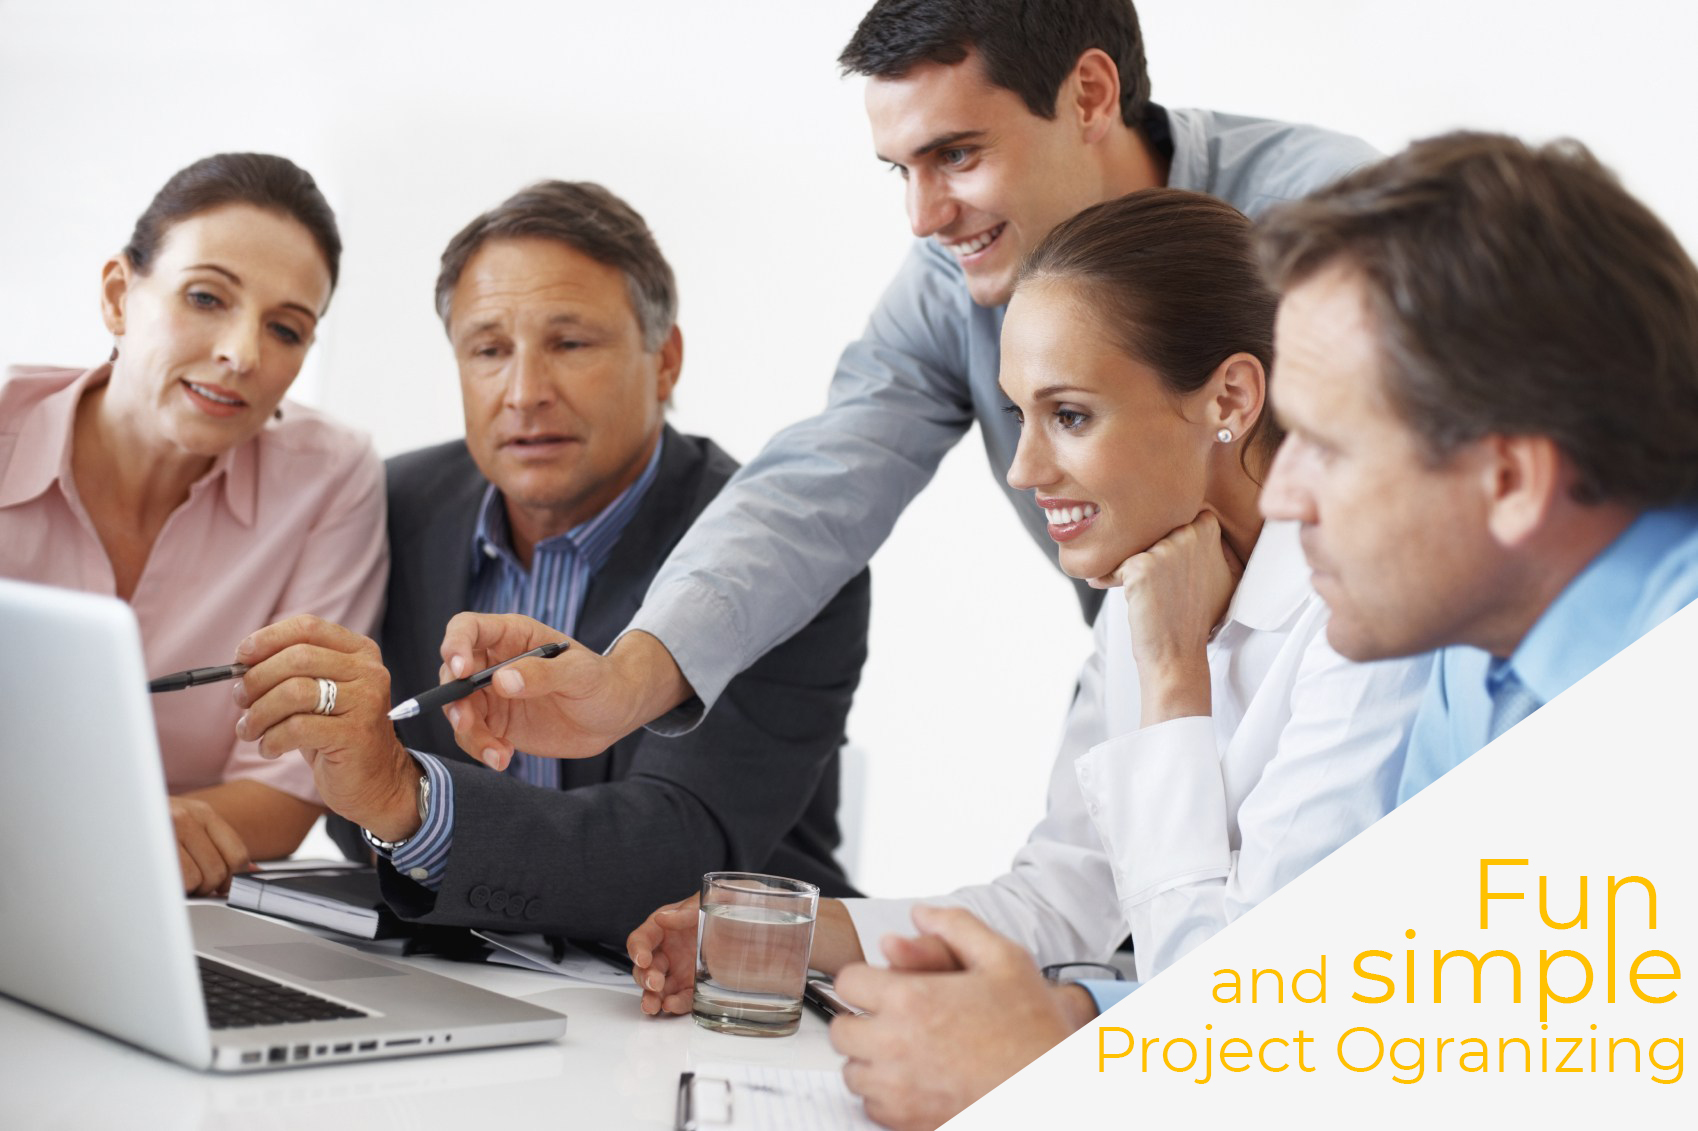
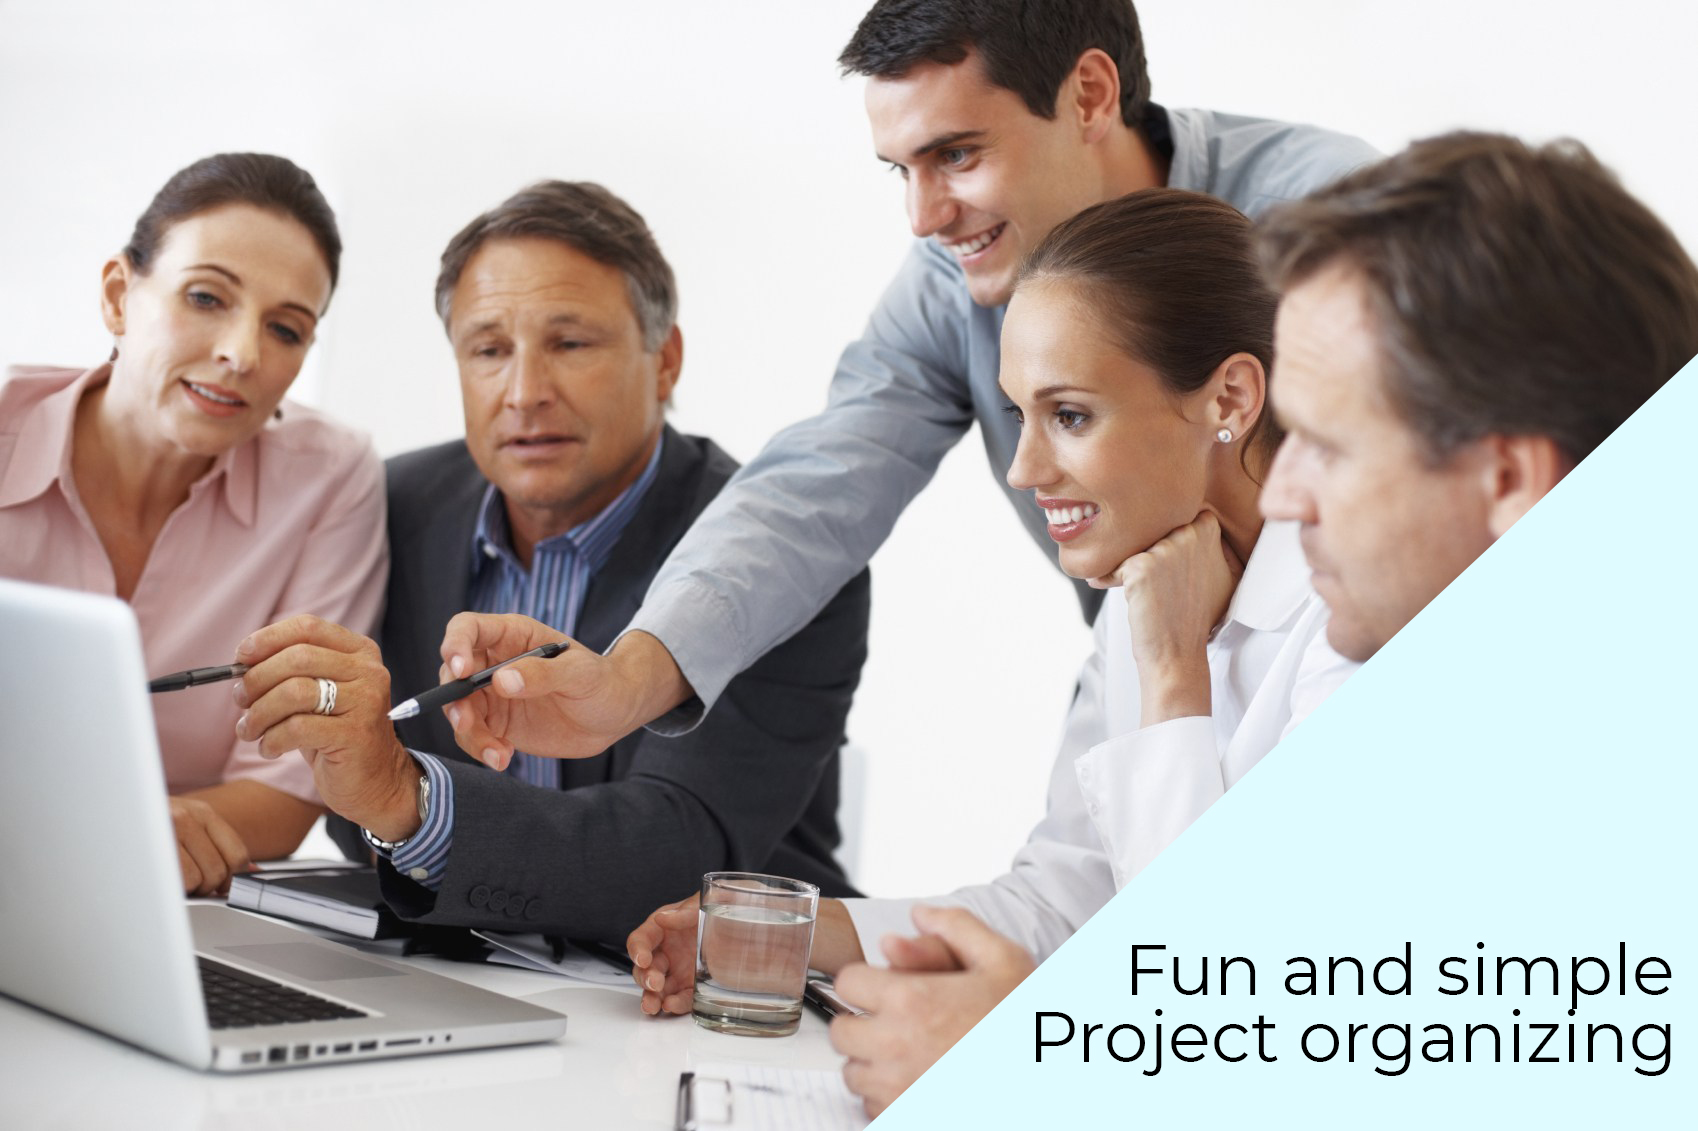
1

Changed region(s): [[0.4994, 0.3095, 1.0, 1.0]]

diff --git a/Hovedmappe/index.css b/Hovedmappe/index.css
@@ -1,6 +1,6 @@
 body{
     position: fixed;
-    background-color: whitesmoke;
+    background-color: #e0fbff;
     left: 0px; 
     margin: 0;
     padding: 0;
@@ -20,13 +20,12 @@ body{
 #rightBox{
     z-index: 0;
     position:absolute;
-    background-color: whitesmoke;
+    background-color: #e0fbff;
     position: absolute;
     height: 100%;
     width: 30%;
     left: 70%;
     top: 0px;
-    background-color: rgb(27, 179, 255);
     padding: 0;
     margin: 0;
 }
@@ -99,7 +98,6 @@ body{
 
 
 #signupForm{
-    background-color: blue;
     opacity: 0.0;
     z-index: 100;
     position: absolute;

diff --git a/Hovedmappe/index.html b/Hovedmappe/index.html
@@ -8,7 +8,7 @@
     </head>
     <body>   
         
-                <img src="images/business_people.jpg" id="backgroundLeft">
+                <img src="images/business_people.png" id="backgroundLeft">
             <box id="loginField">
                 <input class="inputFields" id="inputUsername" placeholder="Enter e-mail or username"></input>
                 <input class="inputFields" id="inputPassword" placeholder="Password" type="password"></input>

diff --git a/Hovedmappe/index.js b/Hovedmappe/index.js
@@ -30,6 +30,8 @@ readSignup.addEventListener("click", function(){
 var createPassword;
 var confirmPassword;
 
+
+//Signupform
 var signupInputPassword = document.getElementById("inputPassword_Signup");
 var passwordCheckbox = document.getElementById("circle_Signup");
 signupInputPassword.addEventListener("input", function(){
